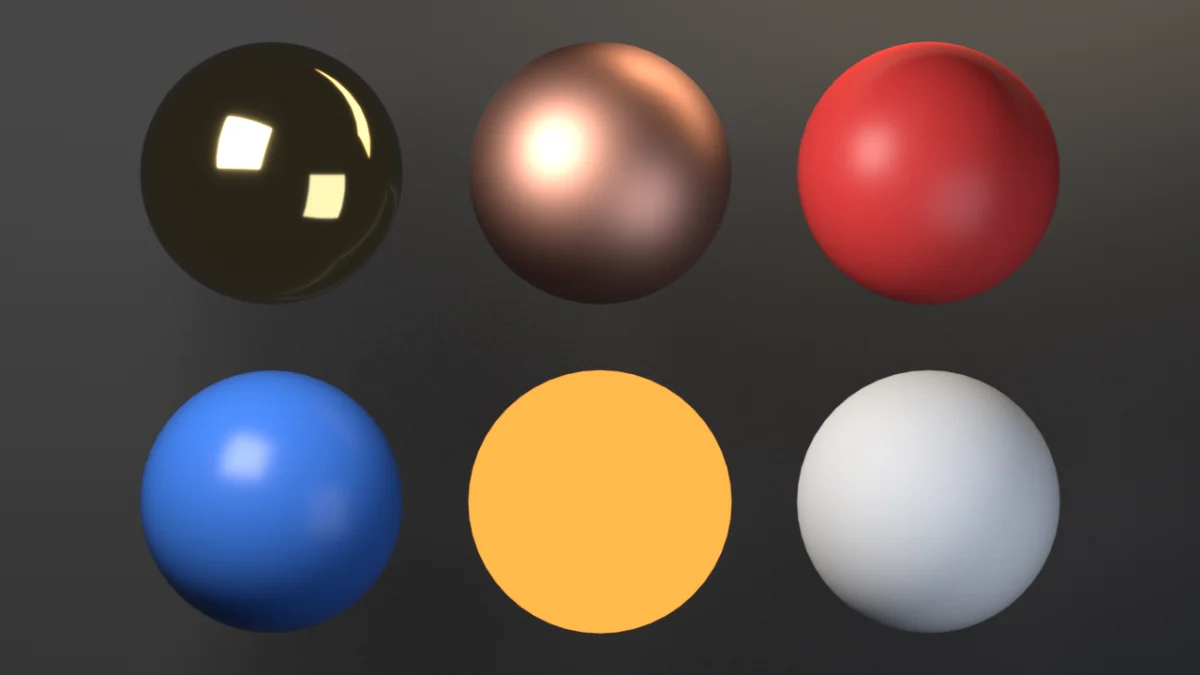
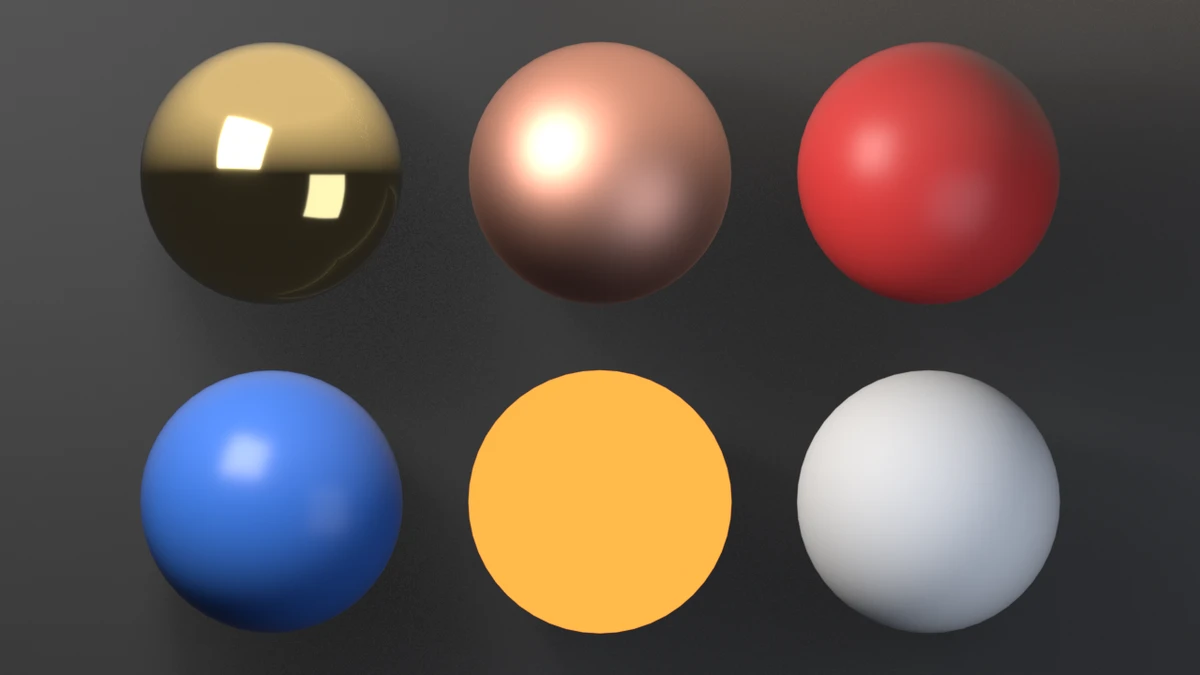
fix(examples): give the swatch-grid gold something to reflect
Render path only. The mirror gold reflected the near-black world and read
as a black ball; a reflection-only sky (Light Path Is Glossy Ray) now gives
it a warm overhead gradient while camera and diffuse rays still see the
dark stage. The backdrop moves in behind the spheres so they cast contact
shadows. Six-region pixel check and exit codes unchanged on all three
binaries. Also refreshes the gallery alts and index for both examples.

diff --git a/docs/gallery/swatch-grid/index.html b/docs/gallery/swatch-grid/index.html
@@ -16,13 +16,13 @@
   <meta property="og:image" content="https://tmhsdigital.github.io/Blender-Developer-Tools/gallery/assets/swatch-grid-hero.webp" />
   <meta property="og:image:width" content="1280" />
   <meta property="og:image:height" content="720" />
-  <meta property="og:image:alt" content="Six material spheres in two rows: black glossy, copper metal, red, blue, flat orange emission and white." />
+  <meta property="og:image:alt" content="Six material spheres in two rows against a dark backdrop: mirror gold, brushed copper, red, blue, flat orange emission and white." />
   <meta property="og:site_name" content="Blender Developer Tools" />
   <meta name="twitter:card" content="summary_large_image" />
   <meta name="twitter:title" content="swatch-grid — Examples — Blender Developer Tools" />
   <meta name="twitter:description" content="Procedural Principled materials — metal and dielectric, the emission pattern, and the cross-version set_specular shim." />
   <meta name="twitter:image" content="https://tmhsdigital.github.io/Blender-Developer-Tools/gallery/assets/swatch-grid-hero.webp" />
-  <meta name="twitter:image:alt" content="Six material spheres in two rows: black glossy, copper metal, red, blue, flat orange emission and white." />
+  <meta name="twitter:image:alt" content="Six material spheres in two rows against a dark backdrop: mirror gold, brushed copper, red, blue, flat orange emission and white." />
   <style>
     /* fonts are deployed by the landing build (docs/fonts/) */
     @font-face { font-family: 'Barlow Condensed'; font-weight: 600; font-display: swap;
@@ -268,8 +268,8 @@
     <p>Procedural Principled materials — metal and dielectric, the emission pattern, and the cross-version set_specular shim.</p>
   </header>
   <main id="main">
-    <button class="detail-hero" id="heroZoom" type="button" aria-label="View full size: Six material spheres in two rows: black glossy, copper metal, red, blue, flat orange emission and white.">
-      <img src="../assets/swatch-grid-hero.webp" alt="Six material spheres in two rows: black glossy, copper metal, red, blue, flat orange emission and white." width="1280" height="720" />
+    <button class="detail-hero" id="heroZoom" type="button" aria-label="View full size: Six material spheres in two rows against a dark backdrop: mirror gold, brushed copper, red, blue, flat orange emission and white.">
+      <img src="../assets/swatch-grid-hero.webp" alt="Six material spheres in two rows against a dark backdrop: mirror gold, brushed copper, red, blue, flat orange emission and white." width="1280" height="720" />
     </button>
     <p class="zoom-hint">Rendered headless by the example itself — click to zoom.</p>
     <div class="callout"><span class="tag">witnesses</span> EEVEE engine-id mapping: BLENDER_EEVEE on 5.x, BLENDER_EEVEE_NEXT on 4.2–4.5.</div>
@@ -294,6 +294,8 @@ blender --background --python swatch_grid.py -- --output swatch.png
 # GPU-less / CI hosts: render the pixels with Cycles (CPU). The EEVEE id is still
 # asserted; only the final pixels use Cycles.
 blender --background --python swatch_grid.py -- --output swatch.png --engine cycles --samples 16 --width 960</code></pre>
+<h2>Staging</h2>
+<p>The backdrop stands 0.16 behind the spheres, so each casts a soft contact shadow. It used to stand 1.58 behind them, and the grid floated. The world is a reflection-only sky: glossy rays see a warm overhead gradient above a dark horizon, and camera and diffuse rays see the dark stage. The mirror-finish gold otherwise reflected the near-black world and rendered as a black ball with two light-card glints. Sphere positions, materials, the camera and the six-region pixel check are unchanged; <code>verify_png</code> still reads six distinct regions on 4.5.11, 5.1.2 and 5.2.1.</p>
 <h2>Exit codes</h2>
 <p>Per-script sequential checks. <code>9</code> is a valid check code; there is no rule against it. <code>10</code> is the shared framing helper.</p>
 <div class="table-wrap"><table><thead><tr><th scope="col">Code</th><th scope="col">Meaning</th></tr></thead><tbody><tr><td>0</td><td>Success</td></tr><tr><td>1</td><td>Uncaught exception (FATAL wrapper)</td></tr><tr><td>2</td><td>argparse / usage</td></tr><tr><td>3</td><td>Distinct swatch colors ≠ 6 (<code>--same-base</code> lands here); also render not six distinct regions</td></tr><tr><td>4</td><td><code>--output</code> produced no file</td></tr><tr><td>5</td><td>Wrong-era EEVEE engine id was accepted</td></tr><tr><td>10</td><td>Gallery framing violation</td></tr></tbody></table></div>
@@ -463,7 +465,10 @@ MATERIAL_COUNT = GRID_COLS * GRID_ROWS  <span class="c"># 6</span>
     wmat, _ = make_principled(<span class="s">&quot;Studio&quot;</span>, (<span class="n">0.03</span>, <span class="n">0.032</span>, <span class="n">0.037</span>, <span class="n">1</span>), <span class="n">0.0</span>, <span class="n">0.7</span>)
     wall_me.materials.append(wmat)
     wall = bpy.data.objects.new(<span class="s">&quot;Wall&quot;</span>, wall_me)
-    wall.location = (<span class="n">0.0</span>, <span class="n">2.5</span>, <span class="n">0.0</span>)
+    <span class="c"># just behind the spheres (0.16 clear of their backs) so each casts a</span>
+    <span class="c"># soft contact shadow and reads as mounted; at y=2.5 they hung 1.58 in</span>
+    <span class="c"># front of the backdrop with nothing under them</span>
+    wall.location = (<span class="n">0.0</span>, <span class="n">1.08</span>, <span class="n">0.0</span>)
     wall.rotation_euler = (math.radians(<span class="n">90</span>), <span class="n">0.0</span>, <span class="n">0.0</span>)
     bpy.context.collection.objects.link(wall)
 
@@ -492,7 +497,29 @@ MATERIAL_COUNT = GRID_COLS * GRID_ROWS  <span class="c"># 6</span>
     bpy.data.objects[<span class="s">&quot;WedgeL&quot;</span>].rotation_euler = (math.radians(-<span class="n">56</span>), <span class="n">0.0</span>, math.radians(<span class="n">190</span>))
     world = bpy.data.worlds.new(<span class="s">&quot;W&quot;</span>)
     world.use_nodes = <span class="k">True</span>
-    world.node_tree.nodes[<span class="s">&quot;Background&quot;</span>].inputs[<span class="n">0</span>].default_value = (<span class="n">0.02</span>, <span class="n">0.021</span>, <span class="n">0.025</span>, <span class="n">1</span>)
+    nt = world.node_tree
+    bg = nt.nodes[<span class="s">&quot;Background&quot;</span>]
+    bg.inputs[<span class="n">0</span>].default_value = (<span class="n">0.02</span>, <span class="n">0.021</span>, <span class="n">0.025</span>, <span class="n">1</span>)
+    <span class="c"># A reflection-only sky: glossy rays see a warm overhead gradient over a</span>
+    <span class="c"># dark horizon, every other ray the dark stage. The mirror-finish gold</span>
+    <span class="c"># otherwise reflected the near-black world and rendered as a black ball</span>
+    <span class="c"># with two light-card glints. Diffuse and camera rays are unchanged, so</span>
+    <span class="c"># the stage stays dark.</span>
+    path = nt.nodes.new(<span class="s">&quot;ShaderNodeLightPath&quot;</span>)
+    coord = nt.nodes.new(<span class="s">&quot;ShaderNodeTexCoord&quot;</span>)
+    sep = nt.nodes.new(<span class="s">&quot;ShaderNodeSeparateXYZ&quot;</span>)
+    nt.links.new(coord.outputs[<span class="s">&quot;Generated&quot;</span>], sep.inputs[<span class="n">0</span>])
+    sky = nt.nodes.new(<span class="s">&quot;ShaderNodeValToRGB&quot;</span>)
+    sky.color_ramp.elements[<span class="n">0</span>].position = <span class="n">0.0</span>
+    sky.color_ramp.elements[<span class="n">0</span>].color = (<span class="n">0.02</span>, <span class="n">0.021</span>, <span class="n">0.025</span>, <span class="n">1</span>)
+    sky.color_ramp.elements[<span class="n">1</span>].position = <span class="n">0.7</span>
+    sky.color_ramp.elements[<span class="n">1</span>].color = (<span class="n">0.70</span>, <span class="n">0.63</span>, <span class="n">0.55</span>, <span class="n">1</span>)
+    nt.links.new(sep.outputs[<span class="s">&quot;Z&quot;</span>], sky.inputs[<span class="s">&quot;Fac&quot;</span>])
+    pick = nt.nodes.new(<span class="s">&quot;ShaderNodeMixRGB&quot;</span>)
+    pick.inputs[<span class="n">1</span>].default_value = (<span class="n">0.02</span>, <span class="n">0.021</span>, <span class="n">0.025</span>, <span class="n">1</span>)
+    nt.links.new(sky.outputs[<span class="s">&quot;Color&quot;</span>], pick.inputs[<span class="n">2</span>])
+    nt.links.new(path.outputs[<span class="s">&quot;Is Glossy Ray&quot;</span>], pick.inputs[<span class="n">0</span>])
+    nt.links.new(pick.outputs[<span class="n">0</span>], bg.inputs[<span class="n">0</span>])
     bpy.context.scene.world = world
 
 
@@ -648,7 +675,7 @@ MATERIAL_COUNT = GRID_COLS * GRID_ROWS  <span class="c"># 6</span>
   </main>
   <dialog class="lightbox" id="lightbox" aria-label="Full-size render">
     <button class="lightbox-close" type="button" autofocus>Close</button>
-    <img src="../assets/swatch-grid-hero.webp" alt="Six material spheres in two rows: black glossy, copper metal, red, blue, flat orange emission and white." />
+    <img src="../assets/swatch-grid-hero.webp" alt="Six material spheres in two rows against a dark backdrop: mirror gold, brushed copper, red, blue, flat orange emission and white." />
   </dialog>
   <footer>
     <div class="statusbar">

diff --git a/docs/gallery/index.html b/docs/gallery/index.html
@@ -343,7 +343,7 @@
     <div class="grid" id="grid">
       <article class="card" data-tags="materials rendering">
         <a class="card-media" href="swatch-grid/" tabindex="-1" aria-hidden="true">
-          <img src="assets/swatch-grid-hero.webp" alt="Six material spheres in two rows: black glossy, copper metal, red, blue, flat orange emission and white." loading="lazy" decoding="async" />
+          <img src="assets/swatch-grid-hero.webp" alt="Six material spheres in two rows against a dark backdrop: mirror gold, brushed copper, red, blue, flat orange emission and white." loading="lazy" decoding="async" />
         </a>
         <div class="card-body">
           <h2><a href="swatch-grid/">swatch-grid</a></h2>
@@ -354,7 +354,7 @@
       </article>
       <article class="card" data-tags="animation">
         <a class="card-media" href="turntable/" tabindex="-1" aria-hidden="true">
-          <img src="assets/turntable-hero.webp" alt="A bronze monkey head (Suzanne) turned three-quarters on a dark studio floor." loading="lazy" decoding="async" />
+          <img src="assets/turntable-hero.webp" alt="A smooth copper monkey head (Suzanne) turned three-quarters on a black turntable with a brushed metal platter." loading="lazy" decoding="async" />
         </a>
         <div class="card-body">
           <h2><a href="turntable/">turntable</a></h2>

diff --git a/examples/swatch-grid/swatch_grid.py b/examples/swatch-grid/swatch_grid.py
@@ -153,7 +153,10 @@ def build_scene(mats):
     wmat, _ = make_principled("Studio", (0.03, 0.032, 0.037, 1), 0.0, 0.7)
     wall_me.materials.append(wmat)
     wall = bpy.data.objects.new("Wall", wall_me)
-    wall.location = (0.0, 2.5, 0.0)
+    # just behind the spheres (0.16 clear of their backs) so each casts a
+    # soft contact shadow and reads as mounted; at y=2.5 they hung 1.58 in
+    # front of the backdrop with nothing under them
+    wall.location = (0.0, 1.08, 0.0)
     wall.rotation_euler = (math.radians(90), 0.0, 0.0)
     bpy.context.collection.objects.link(wall)
 
@@ -182,7 +185,29 @@ def build_scene(mats):
     bpy.data.objects["WedgeL"].rotation_euler = (math.radians(-56), 0.0, math.radians(190))
     world = bpy.data.worlds.new("W")
     world.use_nodes = True
-    world.node_tree.nodes["Background"].inputs[0].default_value = (0.02, 0.021, 0.025, 1)
+    nt = world.node_tree
+    bg = nt.nodes["Background"]
+    bg.inputs[0].default_value = (0.02, 0.021, 0.025, 1)
+    # A reflection-only sky: glossy rays see a warm overhead gradient over a
+    # dark horizon, every other ray the dark stage. The mirror-finish gold
+    # otherwise reflected the near-black world and rendered as a black ball
+    # with two light-card glints. Diffuse and camera rays are unchanged, so
+    # the stage stays dark.
+    path = nt.nodes.new("ShaderNodeLightPath")
+    coord = nt.nodes.new("ShaderNodeTexCoord")
+    sep = nt.nodes.new("ShaderNodeSeparateXYZ")
+    nt.links.new(coord.outputs["Generated"], sep.inputs[0])
+    sky = nt.nodes.new("ShaderNodeValToRGB")
+    sky.color_ramp.elements[0].position = 0.0
+    sky.color_ramp.elements[0].color = (0.02, 0.021, 0.025, 1)
+    sky.color_ramp.elements[1].position = 0.7
+    sky.color_ramp.elements[1].color = (0.70, 0.63, 0.55, 1)
+    nt.links.new(sep.outputs["Z"], sky.inputs["Fac"])
+    pick = nt.nodes.new("ShaderNodeMixRGB")
+    pick.inputs[1].default_value = (0.02, 0.021, 0.025, 1)
+    nt.links.new(sky.outputs["Color"], pick.inputs[2])
+    nt.links.new(path.outputs["Is Glossy Ray"], pick.inputs[0])
+    nt.links.new(pick.outputs[0], bg.inputs[0])
     bpy.context.scene.world = world
 
 

diff --git a/examples/swatch-grid/README.md b/examples/swatch-grid/README.md
@@ -34,6 +34,17 @@ blender --background --python swatch_grid.py -- --output swatch.png
 blender --background --python swatch_grid.py -- --output swatch.png --engine cycles --samples 16 --width 960
 ```
 
+## Staging
+
+The backdrop stands 0.16 behind the spheres, so each casts a soft contact
+shadow. It used to stand 1.58 behind them, and the grid floated. The world is
+a reflection-only sky: glossy rays see a warm overhead gradient above a dark
+horizon, and camera and diffuse rays see the dark stage. The mirror-finish
+gold otherwise reflected the near-black world and rendered as a black ball
+with two light-card glints. Sphere positions, materials, the camera and the
+six-region pixel check are unchanged; `verify_png` still reads six distinct
+regions on 4.5.11, 5.1.2 and 5.2.1.
+
 ## Exit codes
 
 Per-script sequential checks. `9` is a valid check code; there is no rule
